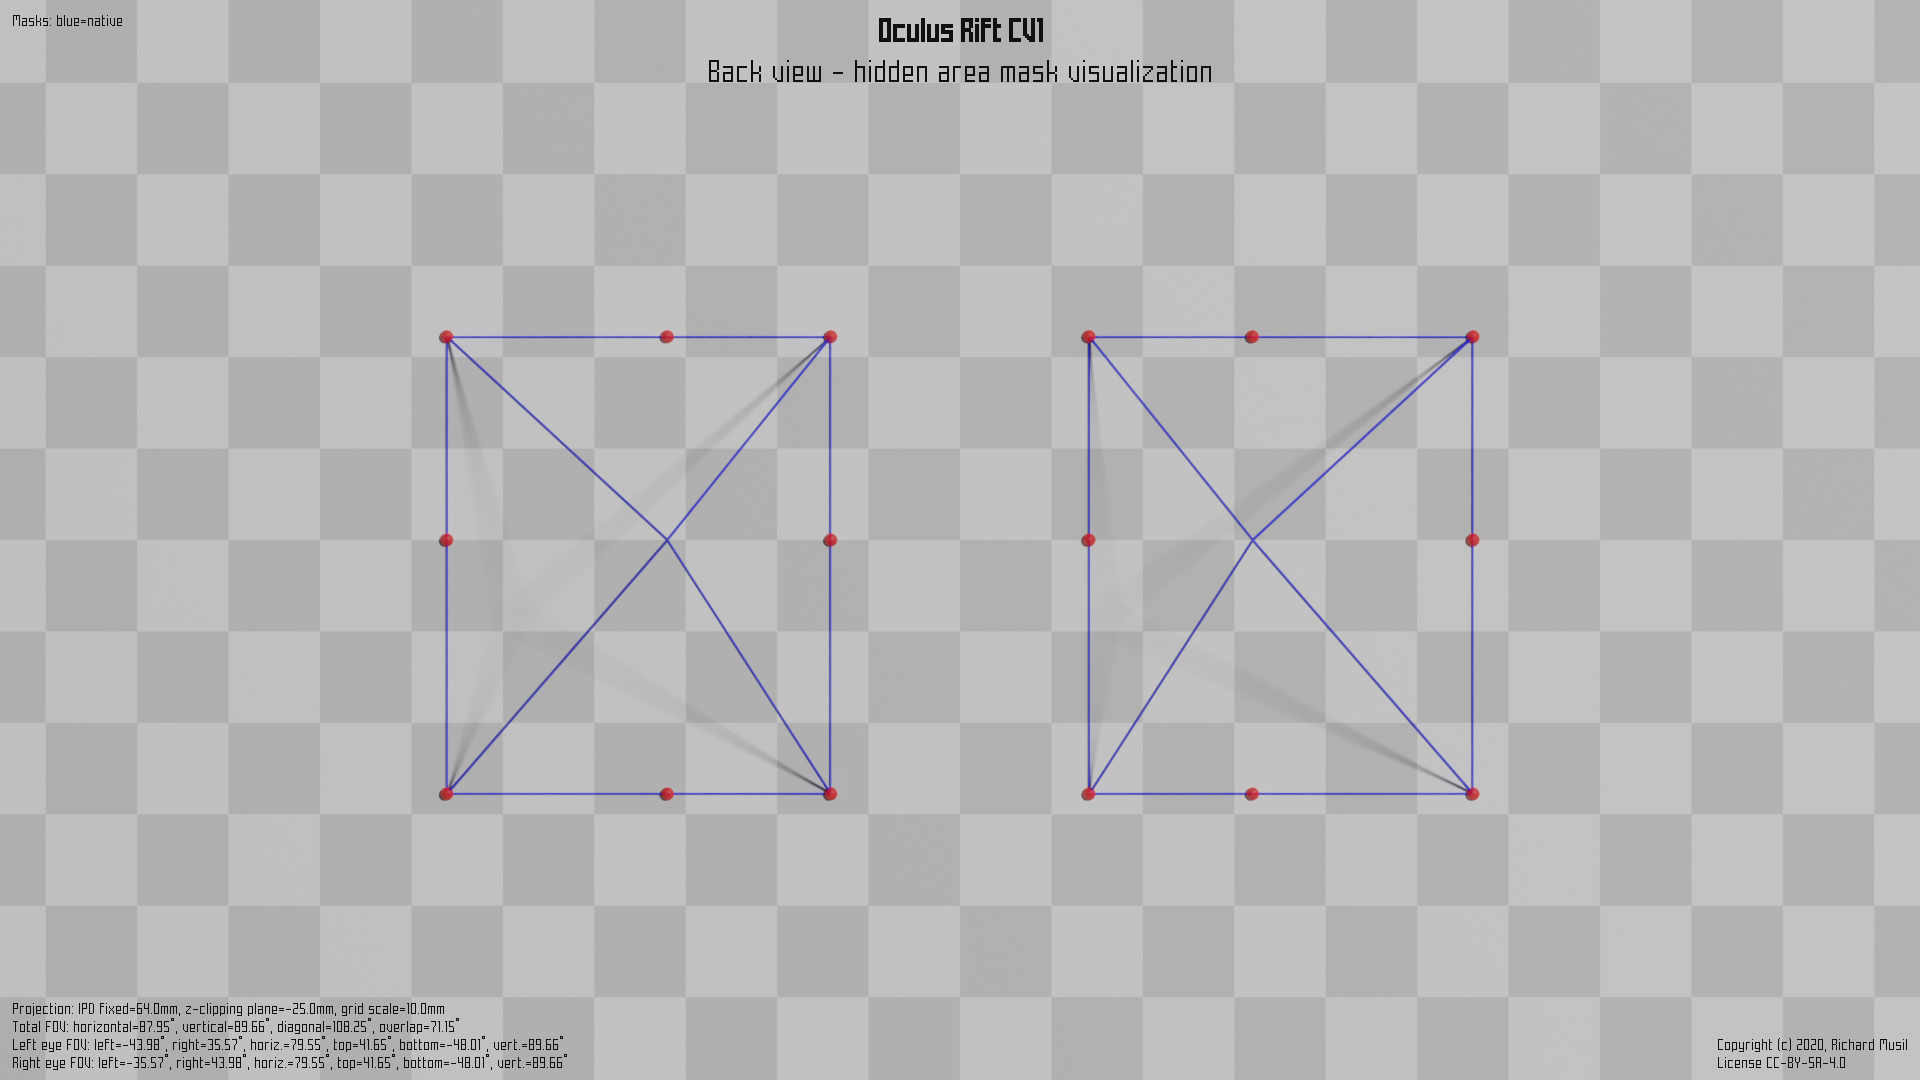
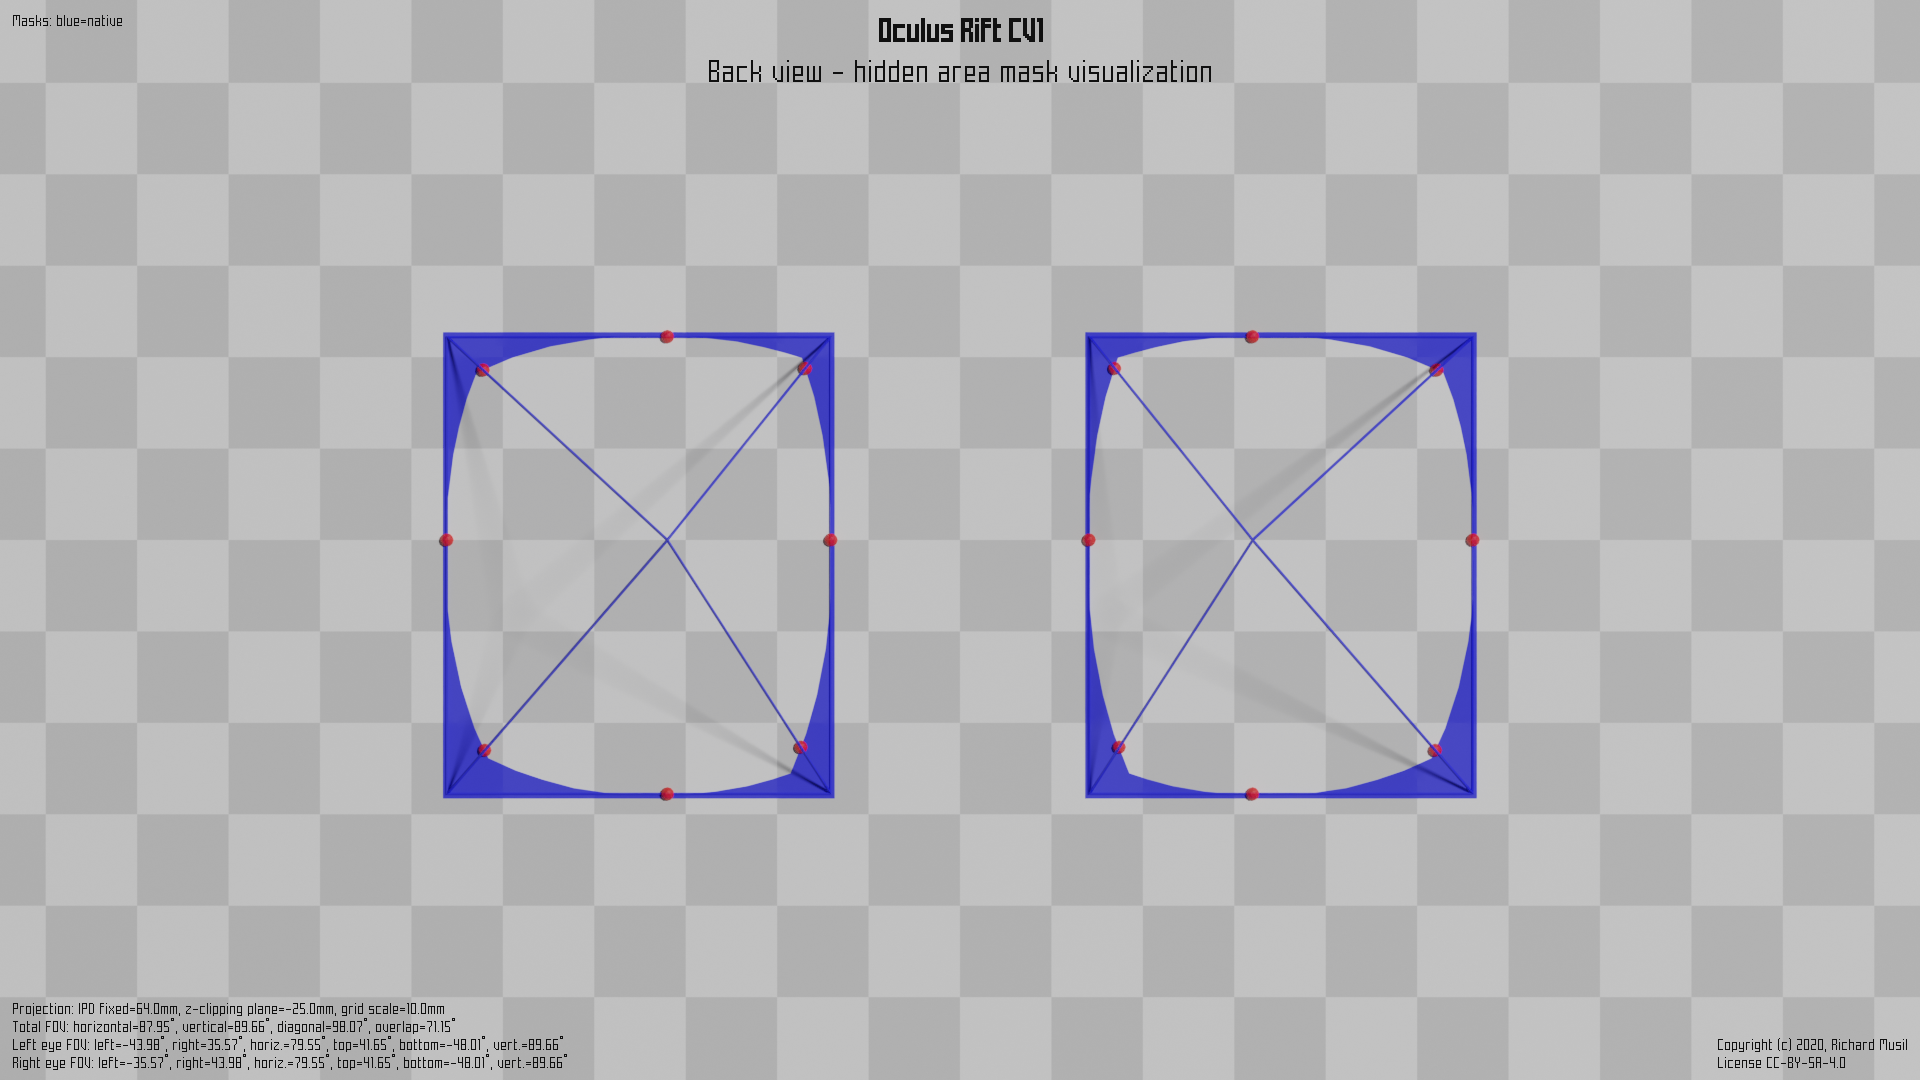
Updated with the hmdq-tools release (v2.0.0).

diff --git a/hmd_cfgs/OculusRiftCV1_Native.md b/hmd_cfgs/OculusRiftCV1_Native.md
@@ -1,6 +1,6 @@
 ---
 title: Oculus Rift CV1
-date: 2019-08-03 16:17:04
+date: 2020-04-14 20:06:58
 ---
 # Oculus Rift CV1
 
@@ -8,73 +8,91 @@ date: 2019-08-03 16:17:04
 
 as recorded and displayed by [`hmdq` or `hmdv`](https://github.com/risa2000/hmdq).
 ```
-hmdv version 1.3.90 - displaying hmdq output data in no time
+hmdv version 2.0.0 - displaying hmdq output data in no time
 
-    Time stamp: 2019-08-03 16:17:04
-  hmdq version: 0.2.4
-Output version: 1
-    OS version: 10.0.17763.615
+    Time stamp: 2020-04-14 20:06:58
+  hmdq version: 1.3.90
+Output version: 5
+    OS version: 10.0.18362.720
 
-... Subsystem: OpenVR ...
+... Subsystem: Oculus ...
 
-OpenVR runtime version: n/a
+Oculus runtime version: 1.47.0
 
-Recommended render target size: [2328, 2768]
+Default FOV:
 
-Left eye HAM mesh:
-    No mesh defined by the headset
+    Recommended render target size: [1344, 1600]
 
-Left eye to head transformation matrix:
-    [[ 1.      ,  0.      ,  0.      , -0.035163],
-     [ 0.      ,  1.      ,  0.      ,  0.      ],
-     [ 0.      ,  0.      ,  1.      ,  0.      ]]
+    Left eye HAM mesh:
+        optimized vertices: 120, n-gons: 40
+                 mesh area: 14.07 %
 
-Left eye raw LRBT values:
-    left:        -0.964926
-    right:        0.715264
-    bottom:      -1.110925
-    top:          0.889498
+    Left eye to head transformation matrix:
+        [[ 1.      ,  0.      ,  0.      , -0.030274],
+         [ 0.      ,  1.      ,  0.      ,  0.      ],
+         [ 0.      ,  0.      ,  1.      ,  0.      ]]
 
-Left eye head FOV:
-    left:       -43.98 deg
-    right:       35.57 deg
-    bottom:     -48.01 deg
-    top:         41.65 deg
-    horiz.:      79.55 deg
-    vert.:       89.66 deg
+    Left eye raw LRBT values:
+        left:        -0.964926
+        right:        0.715264
+        bottom:      -1.110925
+        top:          0.889498
 
-Right eye HAM mesh:
-    No mesh defined by the headset
+    Left eye render description:
+        distorted viewport: [[0, 0], [1080, 1200]]
+        pixels per tan:     [792.76, 792.76]
+        HMD to eye pose:
+            position:    [-0.030274, 0.0000, 0.0000]
+            orientation: [0.0, 0.0, 0.0, 1.0]
 
-Right eye to head transformation matrix:
-    [[ 1.      ,  0.      ,  0.      ,  0.035163],
-     [ 0.      ,  1.      ,  0.      ,  0.      ],
-     [ 0.      ,  0.      ,  1.      ,  0.      ]]
+    Left eye head FOV:
+        left:       -43.98 deg
+        right:       35.57 deg
+        bottom:     -48.01 deg
+        top:         41.65 deg
+        horiz.:      79.55 deg
+        vert.:       89.66 deg
 
-Right eye raw LRBT values:
-    left:        -0.715264
-    right:        0.964926
-    bottom:      -1.110925
-    top:          0.889498
+    Right eye HAM mesh:
+        optimized vertices: 120, n-gons: 40
+                 mesh area: 14.07 %
 
-Right eye head FOV:
-    left:       -35.57 deg
-    right:       43.98 deg
-    bottom:     -48.01 deg
-    top:         41.65 deg
-    horiz.:      79.55 deg
-    vert.:       89.66 deg
+    Right eye to head transformation matrix:
+        [[ 1.      ,  0.      ,  0.      ,  0.030274],
+         [ 0.      ,  1.      ,  0.      ,  0.      ],
+         [ 0.      ,  0.      ,  1.      ,  0.      ]]
 
-Total FOV:
-    horizontal:  87.95 deg
-    vertical:    89.66 deg
-    diagonal:   108.25 deg
-    overlap:     71.15 deg
+    Right eye raw LRBT values:
+        left:        -0.715264
+        right:        0.964926
+        bottom:      -1.110925
+        top:          0.889498
 
-View geometry:
-    left panel rotation:     0.0 deg
-    right panel rotation:    0.0 deg
-    reported IPD:           70.3 mm
+    Right eye render description:
+        distorted viewport: [[1080, 0], [1080, 1200]]
+        pixels per tan:     [792.76, 792.76]
+        HMD to eye pose:
+            position:    [0.030274, 0.0000, 0.0000]
+            orientation: [0.0, 0.0, 0.0, 1.0]
+
+    Right eye head FOV:
+        left:       -35.57 deg
+        right:       43.98 deg
+        bottom:     -48.01 deg
+        top:         41.65 deg
+        horiz.:      79.55 deg
+        vert.:       89.66 deg
+
+    Total FOV:
+        horizontal:  87.95 deg
+        vertical:    89.66 deg
+        diagonal:    98.07 deg
+        overlap:     71.15 deg
+
+    View geometry:
+        left view rotation:     0.0 deg
+        right view rotation:    0.0 deg
+        reported IPD:          60.5 mm
 
 
 ```

diff --git a/hmd_table.md b/hmd_table.md
@@ -1,6 +1,6 @@
 ---
 title: HMD Geometry Database
-date: 2020-04-13 20:57:16
+date: 2020-04-18 08:34:22
 permalink: /
 ---
 # HMD Geometry Database
@@ -22,7 +22,7 @@ Model | Config | FOV hor. | FOV ver. | FOV diag. | Overlap | HAM | Rot LE | Rot 
 HP Reverb | [Native](hmd_cfgs/Reverb_Native.md) | [95.76°](images/Reverb_Native_top.dmx.png) | [90.43°](images/Reverb_Native_left.dmx.png) | [111.78°](images/Reverb_Native_over.dmx.png) | [86.99°](images/Reverb_Native_top.dmx.png) | [0.04%](images/Reverb_Native_back.dmx.png) | 0.2° | -0.2°
 HTC Vive Pro | [Native](hmd_cfgs/VivePro_Native.md) | [107.06°](images/VivePro_Native_top.dmx.png) | [107.71°](images/VivePro_Native_left.dmx.png) | [110.48°](images/VivePro_Native_over.dmx.png) | [90.46°](images/VivePro_Native_top.dmx.png) | [20.20%](images/VivePro_Native_back.dmx.png) |  | 
 HTC Vive | [Native](hmd_cfgs/Vive_Native.md) | [108.77°](images/Vive_Native_top.dmx.png) | [111.53°](images/Vive_Native_left.dmx.png) | [113.18°](images/Vive_Native_over.dmx.png) | [93.45°](images/Vive_Native_top.dmx.png) | [19.10%](images/Vive_Native_back.dmx.png) |  | 
-Oculus Rift CV1 | [Native](hmd_cfgs/OculusRiftCV1_Native.md) | [87.95°](images/OculusRiftCV1_Native_top.dmx.png) | [89.66°](images/OculusRiftCV1_Native_left.dmx.png) | [108.25°](images/OculusRiftCV1_Native_over.dmx.png) | [71.15°](images/OculusRiftCV1_Native_top.dmx.png) |  |  | 
+Oculus Rift CV1 | [Native](hmd_cfgs/OculusRiftCV1_Native.md) | [87.95°](images/OculusRiftCV1_Native_top.dmx.png) | [89.66°](images/OculusRiftCV1_Native_left.dmx.png) | [98.07°](images/OculusRiftCV1_Native_over.dmx.png) | [71.15°](images/OculusRiftCV1_Native_top.dmx.png) | [14.07%](images/OculusRiftCV1_Native_back.dmx.png) |  | 
 Oculus Quest | [Native](hmd_cfgs/Quest_Native.md) | [104.00°](images/Quest_Native_top.dmx.png) | [100.00°](images/Quest_Native_left.dmx.png) | [115.52°](images/Quest_Native_over.dmx.png) | [84.00°](images/Quest_Native_top.dmx.png) | [5.69%](images/Quest_Native_back.dmx.png) |  | 
 Pimax 5K Plus | [Large+Native](hmd_cfgs/Pimax5KPlus_Large_Native.md) | [160.29°](images/Pimax5KPlus_Large_Native_top.dmx.png) | [102.70°](images/Pimax5KPlus_Large_Native_left.dmx.png) | [158.04°](images/Pimax5KPlus_Large_Native_over.dmx.png) | [86.79°](images/Pimax5KPlus_Large_Native_top.dmx.png) | [3.49%](images/Pimax5KPlus_Large_Native_back.dmx.png) | -10.0° | 10.0°
 Pimax 5K Plus | [Large+PP](hmd_cfgs/Pimax5KPlus_Large_PP.md) | [160.29°](images/Pimax5KPlus_Large_PP_top.dmx.png) | ([114.57°](images/Pimax5KPlus_Large_PP_left.dmx.png)) | [160.99°](images/Pimax5KPlus_Large_PP_over.dmx.png) | [86.79°](images/Pimax5KPlus_Large_PP_top.dmx.png) | [1.75%](images/Pimax5KPlus_Large_PP_back.dmx.png) |  | 
@@ -75,5 +75,5 @@ panels are (most likely) coplanar and parallel to the face.
 
 ---
 
-The latest headset data recorded: 2020-04-13 16:57:38  
-The table was generated: 2020-04-13 20:57:16
+The latest headset data recorded: 2020-04-14 20:06:58  
+The table was generated: 2020-04-18 08:34:22

diff --git a/hmd_cfgs/Quest_Native.md b/hmd_cfgs/Quest_Native.md
@@ -8,7 +8,7 @@ date: 2020-04-13 16:57:38
 
 as recorded and displayed by [`hmdq` or `hmdv`](https://github.com/risa2000/hmdq).
 ```
-hmdv version 1.3.90 - displaying hmdq output data in no time
+hmdv version 2.0.0 - displaying hmdq output data in no time
 
     Time stamp: 2020-04-13 16:57:38
   hmdq version: 1.3.4
@@ -90,9 +90,9 @@ Default FOV:
         overlap:     84.00 deg
 
     View geometry:
-        left panel rotation:     0.0 deg
-        right panel rotation:    0.0 deg
-        reported IPD:           63.5 mm
+        left view rotation:     0.0 deg
+        right view rotation:    0.0 deg
+        reported IPD:          63.5 mm
 
 
 ```

diff --git a/hmd_cfgs/Index_Native.md b/hmd_cfgs/Index_Native.md
@@ -8,7 +8,7 @@ date: 2019-08-30 20:51:12
 
 as recorded and displayed by [`hmdq` or `hmdv`](https://github.com/risa2000/hmdq).
 ```
-hmdv version 1.3.90 - displaying hmdq output data in no time
+hmdv version 2.0.0 - displaying hmdq output data in no time
 
     Time stamp: 2019-08-30 20:51:12
   hmdq version: 1.2.2
@@ -92,9 +92,9 @@ Total FOV:
     overlap:     85.93 deg
 
 View geometry:
-    left panel rotation:    -5.0 deg
-    right panel rotation:    5.0 deg
-    reported IPD:           58.0 mm
+    left view rotation:    -5.0 deg
+    right view rotation:    5.0 deg
+    reported IPD:          58.0 mm
 
 
 ```

diff --git a/hmd_cfgs/Index_PP.md b/hmd_cfgs/Index_PP.md
@@ -8,7 +8,7 @@ date: 2019-08-30 20:44:10
 
 as recorded and displayed by [`hmdq` or `hmdv`](https://github.com/risa2000/hmdq).
 ```
-hmdv version 1.3.90 - displaying hmdq output data in no time
+hmdv version 2.0.0 - displaying hmdq output data in no time
 
     Time stamp: 2019-08-30 20:44:10
   hmdq version: 1.2.2
@@ -76,9 +76,9 @@ Total FOV:
     overlap:     84.13 deg
 
 View geometry:
-    left panel rotation:     0.0 deg
-    right panel rotation:    0.0 deg
-    reported IPD:           69.5 mm
+    left view rotation:     0.0 deg
+    right view rotation:    0.0 deg
+    reported IPD:          69.5 mm
 
 
 ```

diff --git a/hmd_cfgs/Pimax5KPlus_Large_Native.md b/hmd_cfgs/Pimax5KPlus_Large_Native.md
@@ -8,7 +8,7 @@ date: 2019-09-20 13:23:12
 
 as recorded and displayed by [`hmdq` or `hmdv`](https://github.com/risa2000/hmdq).
 ```
-hmdv version 1.3.90 - displaying hmdq output data in no time
+hmdv version 2.0.0 - displaying hmdq output data in no time
 
     Time stamp: 2019-09-20 13:23:12
   hmdq version: 1.3.1
@@ -92,9 +92,9 @@ Total FOV:
     overlap:     86.79 deg
 
 View geometry:
-    left panel rotation:   -10.0 deg
-    right panel rotation:   10.0 deg
-    reported IPD:           70.0 mm
+    left view rotation:   -10.0 deg
+    right view rotation:   10.0 deg
+    reported IPD:          70.0 mm
 
 
 ```

diff --git a/hmd_cfgs/Pimax5KPlus_Large_PP.md b/hmd_cfgs/Pimax5KPlus_Large_PP.md
@@ -8,7 +8,7 @@ date: 2019-09-20 13:27:53
 
 as recorded and displayed by [`hmdq` or `hmdv`](https://github.com/risa2000/hmdq).
 ```
-hmdv version 1.3.90 - displaying hmdq output data in no time
+hmdv version 2.0.0 - displaying hmdq output data in no time
 
     Time stamp: 2019-09-20 13:27:53
   hmdq version: 1.3.1
@@ -76,9 +76,9 @@ Total FOV:
     overlap:     86.79 deg
 
 View geometry:
-    left panel rotation:     0.0 deg
-    right panel rotation:    0.0 deg
-    reported IPD:           70.0 mm
+    left view rotation:     0.0 deg
+    right view rotation:    0.0 deg
+    reported IPD:          70.0 mm
 
 
 ```

diff --git a/hmd_cfgs/Pimax5KPlus_Normal_Native.md b/hmd_cfgs/Pimax5KPlus_Normal_Native.md
@@ -8,7 +8,7 @@ date: 2019-09-20 13:17:25
 
 as recorded and displayed by [`hmdq` or `hmdv`](https://github.com/risa2000/hmdq).
 ```
-hmdv version 1.3.90 - displaying hmdq output data in no time
+hmdv version 2.0.0 - displaying hmdq output data in no time
 
     Time stamp: 2019-09-20 13:17:25
   hmdq version: 1.3.1
@@ -92,9 +92,9 @@ Total FOV:
     overlap:     86.79 deg
 
 View geometry:
-    left panel rotation:   -10.0 deg
-    right panel rotation:   10.0 deg
-    reported IPD:           70.0 mm
+    left view rotation:   -10.0 deg
+    right view rotation:   10.0 deg
+    reported IPD:          70.0 mm
 
 
 ```

diff --git a/hmd_cfgs/Pimax5KPlus_Normal_PP.md b/hmd_cfgs/Pimax5KPlus_Normal_PP.md
@@ -8,7 +8,7 @@ date: 2019-09-20 13:31:55
 
 as recorded and displayed by [`hmdq` or `hmdv`](https://github.com/risa2000/hmdq).
 ```
-hmdv version 1.3.90 - displaying hmdq output data in no time
+hmdv version 2.0.0 - displaying hmdq output data in no time
 
     Time stamp: 2019-09-20 13:31:55
   hmdq version: 1.3.1
@@ -76,9 +76,9 @@ Total FOV:
     overlap:     86.79 deg
 
 View geometry:
-    left panel rotation:     0.0 deg
-    right panel rotation:    0.0 deg
-    reported IPD:           70.0 mm
+    left view rotation:     0.0 deg
+    right view rotation:    0.0 deg
+    reported IPD:          70.0 mm
 
 
 ```

diff --git a/hmd_cfgs/Pimax5KPlus_Small_Native.md b/hmd_cfgs/Pimax5KPlus_Small_Native.md
@@ -8,7 +8,7 @@ date: 2019-09-20 13:21:49
 
 as recorded and displayed by [`hmdq` or `hmdv`](https://github.com/risa2000/hmdq).
 ```
-hmdv version 1.3.90 - displaying hmdq output data in no time
+hmdv version 2.0.0 - displaying hmdq output data in no time
 
     Time stamp: 2019-09-20 13:21:49
   hmdq version: 1.3.1
@@ -92,9 +92,9 @@ Total FOV:
     overlap:     86.79 deg
 
 View geometry:
-    left panel rotation:   -10.0 deg
-    right panel rotation:   10.0 deg
-    reported IPD:           70.0 mm
+    left view rotation:   -10.0 deg
+    right view rotation:   10.0 deg
+    reported IPD:          70.0 mm
 
 
 ```

diff --git a/hmd_cfgs/Pimax5KPlus_Small_PP.md b/hmd_cfgs/Pimax5KPlus_Small_PP.md
@@ -8,7 +8,7 @@ date: 2019-09-20 13:30:15
 
 as recorded and displayed by [`hmdq` or `hmdv`](https://github.com/risa2000/hmdq).
 ```
-hmdv version 1.3.90 - displaying hmdq output data in no time
+hmdv version 2.0.0 - displaying hmdq output data in no time
 
     Time stamp: 2019-09-20 13:30:15
   hmdq version: 1.3.1
@@ -76,9 +76,9 @@ Total FOV:
     overlap:     86.79 deg
 
 View geometry:
-    left panel rotation:     0.0 deg
-    right panel rotation:    0.0 deg
-    reported IPD:           70.0 mm
+    left view rotation:     0.0 deg
+    right view rotation:    0.0 deg
+    reported IPD:          70.0 mm
 
 
 ```

diff --git a/hmd_cfgs/Pimax8K_Large_Native.md b/hmd_cfgs/Pimax8K_Large_Native.md
@@ -8,7 +8,7 @@ date: 2019-08-02 23:15:38
 
 as recorded and displayed by [`hmdq` or `hmdv`](https://github.com/risa2000/hmdq).
 ```
-hmdv version 1.3.90 - displaying hmdq output data in no time
+hmdv version 2.0.0 - displaying hmdq output data in no time
 
     Time stamp: 2019-08-02 23:15:38
   hmdq version: 0.2.4
@@ -92,9 +92,9 @@ Total FOV:
     overlap:     86.79 deg
 
 View geometry:
-    left panel rotation:   -10.0 deg
-    right panel rotation:   10.0 deg
-    reported IPD:           67.0 mm
+    left view rotation:   -10.0 deg
+    right view rotation:   10.0 deg
+    reported IPD:          67.0 mm
 
 
 ```
